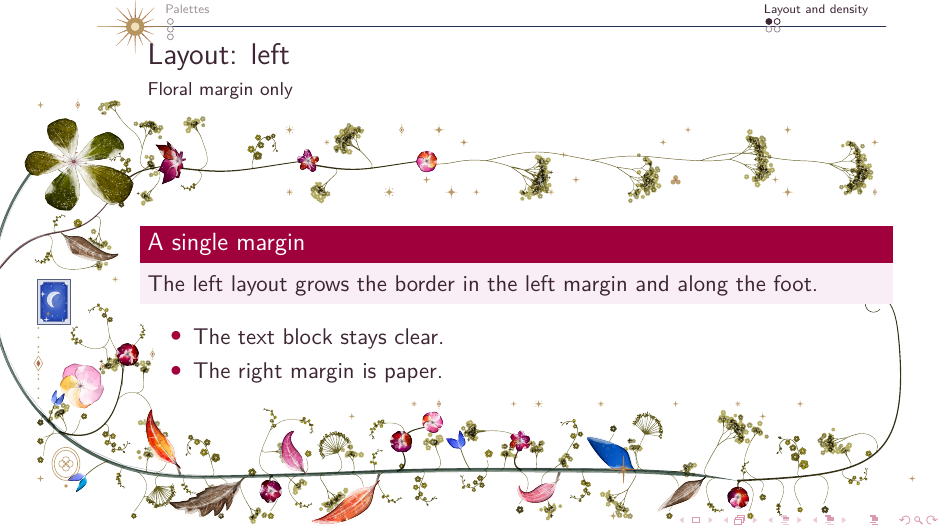
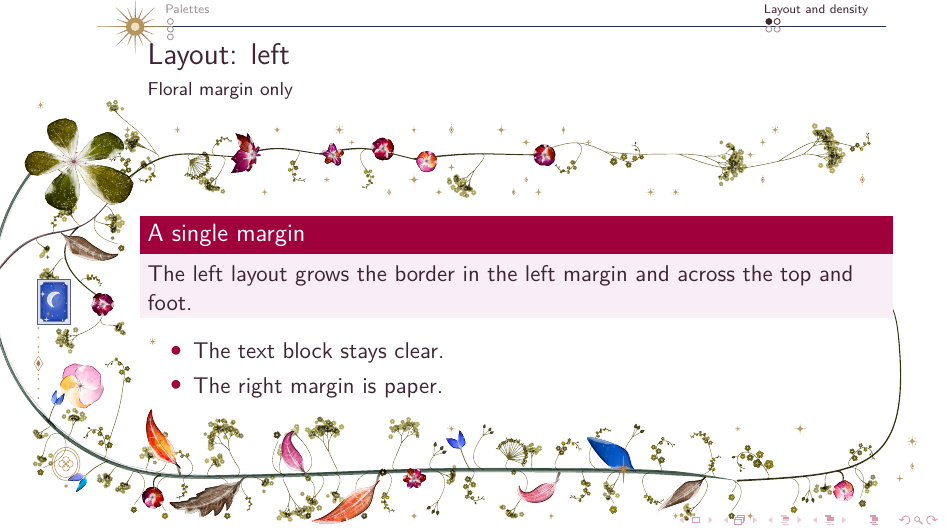
docs: correct the left caption and CI claim
The left layout also grows across the top; CI runs the layout tests only at the pinned engine.

diff --git a/docs/src/showcase.tex b/docs/src/showcase.tex
@@ -94,7 +94,7 @@
   \frametitle{Layout: left}
   \framesubtitle{Floral margin only}
   \begin{block}{A single margin}
-    The left layout grows the border in the left margin and along the foot.
+    The left layout grows the border in the left margin and across the top and foot.
   \end{block}
   \begin{itemize}
     \item The text block stays clear.

diff --git a/README.md b/README.md
@@ -68,7 +68,7 @@ frames the page instead of underlining a running head.*
 
 ![Left layout](docs/img/layout-left.png)
 
-*`layout=left`: the flora grows in the left margin and along the foot.*
+*`layout=left`: the flora grows in the left margin and across the top and foot; the right margin is paper.*
 
 ![Surround layout](docs/img/layout-surround.png)
 
@@ -90,12 +90,14 @@ Load the stock theme first and beamer-floral after it:
 ```tex
 \usetheme{Madrid}
 \usepackage{beamer-floral}
-\florasetup{layout=surround, seed=3}
+\florasetup{layout=surround, seed=3,
+  tune={gesture={top_inset=48}}}
 ```
 
 The stock theme keeps its own header, block, alert and example colours;
-beamer-floral adds the plants and the palette. If the theme has no header
-bar, set `gesture.top_inset` so the crown starts below the frame title:
+beamer-floral adds the plants and the palette. Set `gesture.top_inset` so
+the crown starts below the header bar. Themes without a header bar need a
+smaller inset; the default theme works with 28:
 
 ```tex
 \florasetup{tune={gesture={top_inset=28}}}
@@ -138,9 +140,10 @@ Named palettes:
 \florapalette{green-stems}  % as green, with green stems
 ```
 
-`\florapalette` also sets the block title, alert, example and
-description-label colours. Alerts take a deeper ink from the same family:
-yama-budo for warm, murasaki-shikibu for blue, edo-murasaki for green.
+With `\usetheme{floral}`, `\florapalette` also sets the block title,
+alert, example and description-label colours. Alerts take a deeper ink
+from the same family: yama-budo for warm, murasaki-shikibu for blue,
+edo-murasaki for green. A stock theme keeps its own block colours.
 
 ## Reserving space
 
@@ -161,8 +164,8 @@ backs the title-page inset above.
 latexmk -lualatex test/smoke.tex
 ```
 
-CI checks out the pinned engine, runs its layout and reserve tests, and
-builds `test/smoke.tex` with LuaLaTeX. The `tune` keys are validated by the
+CI checks out the pinned engine, runs its layout tests, and builds
+`test/smoke.tex` with LuaLaTeX. The `tune` keys are validated by the
 engine against its tuner index, so a typo names the key and its valid
 siblings.
 
